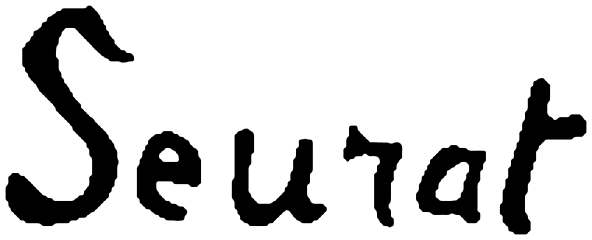
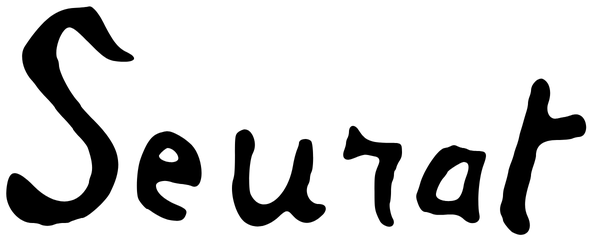
İmzalar kalemle yazılır; 22 pikselli imza vektörle yeniden çizildi; Ayarlar'da günün sanatçısını değiştir; ana sayfada yıllar satırı kalktı (v1.44.0)
Claude-Session: https://claude.ai/code/session_01Jyy6CPr5G9ZFrqo5QNC9z8

diff --git a/js/imza.js b/js/imza.js
@@ -118,7 +118,7 @@ export function murekkepMaskesi(img, yukseklik = 240) {
     k.width = kw;
     k.height = kh;
     k.getContext('2d').drawImage(t, x0, y0, kw, kh, 0, 0, kw, kh);
-    return { adres: k.toDataURL('image/png'), en: kw, boy: kh };
+    return { adres: k.toDataURL('image/png'), en: kw, boy: kh, img: k };
   } catch {
     return null;
   }
@@ -147,7 +147,7 @@ export async function imzaGoster(s, kutu) {
   const yerel = `gorseller/imza/${encodeURIComponent(s.id)}.png`;
   const hazir = await yukle(yerel, false).catch(() => null);
   // tam adres: CSS değişkenindeki göreli url() stil dosyasına (css/) göre çözülürdü
-  if (hazir) m = { adres: new URL(yerel, document.baseURI).href, en: hazir.naturalWidth, boy: hazir.naturalHeight };
+  if (hazir) m = { adres: new URL(yerel, document.baseURI).href, en: hazir.naturalWidth, boy: hazir.naturalHeight, img: hazir };
   else {
     // küçük resim (CORS'lu); Wikimedia hız sınırına (429) takıldıysa birkaç saniye sonra bir kez daha
     const kucuk = commonsKucuk(dosya, 960); // büyük kaynak: maske 3 kat ekranda keskin kalsın
@@ -173,4 +173,93 @@ export async function imzaGoster(s, kutu) {
   const ad = kutu.querySelector('.isim');
   if (ad) ad.after(kap);
   else kutu.prepend(kap);
+  kalemleYaz(el, kap, kalemYolu(m.img));
+}
+
+// Kalemin yolu: maske dikey şeritlere bölünür; her şeritte mürekkep miktarı (0…1) ve mürekkebin ağırlık merkezi (y,
+// 0 üst … 1 alt). Mürekkep yoksa y bir önceki şeritten kalır (kalem havada, aynı yükseklikte ilerler).
+export function seritlerden(veri, w, h) {
+  const yol = [];
+  let oncekiY = 0.6;
+  for (let x = 0; x < w; x++) {
+    let top = 0;
+    let ty = 0;
+    for (let y = 0; y < h; y++) {
+      const a = veri[(y * w + x) * 4 + 3] / 255;
+      top += a;
+      ty += a * y;
+    }
+    const y = top > 0.05 ? ty / top / Math.max(1, h - 1) : oncekiY;
+    oncekiY = y;
+    yol.push({ y, m: Math.min(1, top / (h * 0.35)) });
+  }
+  return yol;
+}
+
+export function kalemYolu(kaynak, n = 64) {
+  try {
+    const h = 32;
+    const t = document.createElement('canvas');
+    t.width = n;
+    t.height = h;
+    const c = t.getContext('2d', { willReadFrequently: true });
+    c.drawImage(kaynak, 0, 0, n, h);
+    return seritlerden(c.getImageData(0, 0, n, h).data, n, h);
+  } catch {
+    return null;
+  }
+}
+
+// Zaman çizelgesi: mürekkebi çok olan şeritte kalem yavaşlar, boşlukta hızlanır. Dönen: her şeridin bitiş anı (0…1)
+export function yazmaZamanlari(yol) {
+  const agirlik = yol.map((s) => 0.18 + s.m);
+  const top = agirlik.reduce((a, b) => a + b, 0) || 1;
+  let birikim = 0;
+  return agirlik.map((a) => (birikim += a / top));
+}
+
+const azHareket = () => typeof matchMedia === 'function' && matchMedia('(prefers-reduced-motion: reduce)').matches;
+
+// İmza kalemle yazılıyormuş gibi soldan sağa belirir (--yaz: maskenin açık kısmı); parlayan kalem ucu mürekkebi izler,
+// mürekkebin yüksekliğine göre iner çıkar. Bitince uç söner, imzanın üstünden bir kez ışık kayar (.yazildi).
+function kalemleYaz(el, kap, yol) {
+  const bitir = () => {
+    el.style.setProperty('--yaz', '100%');
+    el.classList.add('yazildi');
+  };
+  if (!yol || !yol.length || azHareket() || typeof requestAnimationFrame !== 'function') return bitir();
+  const oran = parseFloat(el.style.getPropertyValue('--oran')) || 4;
+  const sure = Math.min(2600, Math.max(1300, 900 + oran * 260)); // uzun imza daha uzun sürer
+  const zaman = yazmaZamanlari(yol);
+  const uc = document.createElement('span');
+  uc.className = 'imza-uc';
+  uc.setAttribute('aria-hidden', 'true');
+  kap.append(uc);
+  el.style.setProperty('--yaz', '0%');
+  let bas = 0;
+  let i = 0;
+  const adim = (t) => {
+    if (!el.isConnected) return;
+    if (!bas) bas = t + 350; // ad belirdikten az sonra başlar
+    const z = Math.max(0, (t - bas) / sure);
+    while (i < zaman.length - 1 && zaman[i] < z) i++;
+    const once = i ? zaman[i - 1] : 0;
+    const f = Math.min(1, Math.max(0, (z - once) / Math.max(1e-6, zaman[i] - once)));
+    const x = Math.min(1, (i + f) / yol.length);
+    // imza kutunun içinde "contain" ile durur: genişlik kutuyu doldurur, yükseklik ortalanır
+    const gen = el.offsetWidth;
+    const boy = el.offsetHeight;
+    const imzaBoy = Math.min(boy, gen / oran);
+    const ustBosluk = (boy - imzaBoy) / 2;
+    el.style.setProperty('--yaz', `${(x * 100).toFixed(2)}%`);
+    uc.style.left = `${el.offsetLeft + x * gen}px`;
+    uc.style.top = `${el.offsetTop + ustBosluk + yol[Math.min(i, yol.length - 1)].y * imzaBoy}px`;
+    if (z < 1) requestAnimationFrame(adim);
+    else {
+      uc.classList.add('bitti');
+      setTimeout(() => uc.remove(), 600);
+      bitir();
+    }
+  };
+  requestAnimationFrame(adim);
 }

diff --git a/css/app.css b/css/app.css
@@ -12713,6 +12713,7 @@ a.harita-seviye:active {
    (kâğıt zemini saydam); maskeyi yaldız boyar, ışık mürekkebin üstünden bir kez kayar: her temada aynı altın imza.
    Soldan sağa yazılır gibi belirir. Açık temalarda yaldız koyulaşır (açık zeminde okunsun). */
 .imza-kap {
+  position: relative;
   display: block;
   width: fit-content;
   max-width: 72%;
@@ -12725,22 +12726,47 @@ a.harita-seviye:active {
   width: calc(var(--imza-boy) * var(--oran, 4));
   max-width: 100%;
   background: linear-gradient(100deg, #a8782a 0%, #f6dc8e 22%, #c9973a 42%, #fff1c4 50%, #c9973a 58%, #e8c46e 78%, #9a6b1f 100%) 0 0 / 260% 100%;
-  /* uzun yazılış: Safari kısaltmanın içindeki var()'ı kimi sürümlerde çözemiyor */
-  -webkit-mask-image: var(--imza);
-  -webkit-mask-size: contain;
+  /* İki maske katmanı kesişir: imzanın kendisi ve kalemle yazılmış kısmı (--yaz kadar, ucu yumuşak; js/imza.js
+     kalemleYaz yürütür). Uzun yazılış: Safari kısaltmanın içindeki var()'ı kimi sürümlerde çözemiyor. */
+  -webkit-mask-image: var(--imza), linear-gradient(90deg, #000 calc(var(--yaz, 100%) - 2%), transparent calc(var(--yaz, 100%) + 0.5%));
+  -webkit-mask-size: contain, 100% 100%;
   -webkit-mask-repeat: no-repeat;
-  -webkit-mask-position: left center;
-  mask-image: var(--imza);
-  mask-size: contain;
+  -webkit-mask-position: left center, 0 0;
+  -webkit-mask-composite: source-in;
+  mask-image: var(--imza), linear-gradient(90deg, #000 calc(var(--yaz, 100%) - 2%), transparent calc(var(--yaz, 100%) + 0.5%));
+  mask-size: contain, 100% 100%;
   mask-repeat: no-repeat;
-  mask-position: left center;
-  animation:
-    imza-gel 1.4s ease-out both,
-    imza-isil 3.2s 1.2s ease-in-out both;
+  mask-position: left center, 0 0;
+  mask-composite: intersect;
+}
+/* yazı bitince üstünden bir kez ışık kayar */
+.imza.yazildi {
+  animation: imza-isil 3.2s ease-in-out both;
+}
+/* kalemin ucu: mürekkebi izleyen küçük parlak nokta */
+.imza-uc {
+  position: absolute;
+  z-index: 1;
+  width: 8px;
+  height: 8px;
+  margin: -4px 0 0 -4px;
+  border-radius: 50%;
+  background: radial-gradient(circle, #fffaf0 0%, #f6dc8e 40%, rgba(246, 220, 142, 0) 72%);
+  box-shadow: 0 0 12px 4px rgba(246, 220, 142, 0.45);
+  pointer-events: none;
+  transition: opacity 0.5s ease-out;
+}
+.imza-uc.bitti {
+  opacity: 0;
 }
 :root[data-tema='sepya'] .imza,
 :root[data-tema='acik'] .imza {
   background-image: linear-gradient(100deg, #6e4a14 0%, #a8782a 22%, #8a6420 42%, #d4a64a 50%, #8a6420 58%, #a8782a 78%, #5a3c10 100%);
+}
+:root[data-tema='sepya'] .imza-uc,
+:root[data-tema='acik'] .imza-uc {
+  background: radial-gradient(circle, #fff3d0 0%, #c9973a 40%, rgba(201, 151, 58, 0) 72%);
+  box-shadow: 0 0 10px 3px rgba(154, 107, 31, 0.35);
 }
 @keyframes imza-isil {
   from {
@@ -12750,19 +12776,9 @@ a.harita-seviye:active {
     background-position: 0 0;
   }
 }
-@keyframes imza-gel {
-  from {
-    opacity: 0;
-    clip-path: inset(0 100% 0 0);
-  }
-  to {
-    clip-path: inset(0 0 0 0);
-  }
-}
 @media (prefers-reduced-motion: reduce) {
-  .imza {
+  .imza.yazildi {
     animation: none;
-    background-position: 0 0;
   }
 }
 

diff --git a/js/ekranlar/ayarlar.js b/js/ekranlar/ayarlar.js
@@ -5,7 +5,9 @@ import { gorselUrl, secilenGorsel } from '../gorsel.js';
 import { yedekMetni, yedekCoz, yedekYarimOturum, TEMALAR, gelistiriciAc, gelistiriciKapat } from '../depo.js';
 import { idbKoy } from '../idb.js';
 import { kayitGecerliMi } from '../devam.js';
-import { acikListe, bugun, kotuler, d, gununRengi, ciz, ust, TEMA_AD, TAHMINI_GORSEL_KB, ekran, kaydet, temaUygula } from './ortak.js';
+import { acikListe, bugun, kotuler, d, gununRengi, ciz, ust, TEMA_AD, TAHMINI_GORSEL_KB, ekran, kaydet, temaUygula, gununId, gununHavuzu } from './ortak.js';
+import { baskaSanatci } from '../gunun.js';
+import { bilinenAd } from '../adlar.js';
 import { yedekTarihiYaz } from './bugun.js';
 import { yarimSil } from './pekistir.js';
 import { SURUM } from '../surum.js';
@@ -85,6 +87,11 @@ export function ayarlarSayfasi() {
         <input class="anahtar" type="checkbox" role="switch" data-ayar-egim ${a.egim !== false ? 'checked' : ''} ${egimVar() ? '' : 'disabled'} aria-label="Telefonu eğince tablo oynasın"></label>
         <button class="dugme ince" type="button" data-egim-izin data-test="egim-izin" hidden>${ikon('hareket', 18, 1.6)} Hareket iznini ver</button>
         <p class="mesaj" id="egim-mesaj" aria-live="polite"></p></div>
+      <div class="ayar"><b>Günün sanatçısı</b>
+        <p>Bugün: <span data-gunun-ad data-test="gunun-ad">${kacis(gununAdi())}</span>. Başka biriyle değiştirebilirsin; gün boyunca o kalır, yarın yeni sanatçı kendiliğinden gelir.</p>
+        <button class="dugme ince" type="button" data-gunun-degistir data-test="gunun-degistir">Başka bir sanatçı getir</button>
+        <p class="mesaj" id="gunun-mesaj" aria-live="polite"></p>
+      </div>
       <div class="ayar"><b>Görselleri çevrimdışı indir</b>
         <p id="indir-bilgi">Açık sanatçıların pekiştirme görselleri (sanatçı başına en fazla ${TEST_HAVUZU}) hesaplanıyor…</p>
         <button class="dugme" type="button" data-indir>İndir</button>
@@ -191,6 +198,17 @@ export function olaylariBagla() {
       a.gunlukKart = Math.min(100, Math.max(5, a.gunlukKart + Number(kb.dataset.kart)));
       ekran.querySelector('[data-test="gunluk-kart"]').textContent = a.gunlukKart;
       kaydet();
+      return;
+    }
+    if (e.target.closest('[data-gunun-degistir]')) {
+      // o gün için günün sanatçısı (ilerleme.gununDegisim; js/ekranlar/ortak.js gununId)
+      d.ilerleme.gununDegisim = { tarih: bugun(), id: baskaSanatci(gununHavuzu(), gununId(), Math.random) };
+      kaydet();
+      d.perdeAcildi = false; // ana sayfaya dönünce sahne perdeyle açılır
+      ekran.querySelector('[data-gunun-ad]').textContent = gununAdi();
+      const m = document.getElementById('gunun-mesaj');
+      m.className = 'mesaj tamam';
+      m.innerHTML = `Ana sayfada bugün ${kacis(gununAdi())}. <a href="#/">Ana sayfaya git</a>`;
       return;
     }
     if (e.target.closest('[data-indir]')) return gorselleriIndir();
@@ -335,3 +353,9 @@ export function olaylariBagla() {
     }
   });
 }
+
+function gununAdi() {
+  const s = d.harita.get(gununId());
+  return s ? bilinenAd(s.ad, d.kisaAdlar[s.id]) : '—';
+}
+

diff --git a/tests/e2e/estetik.spec.js b/tests/e2e/estetik.spec.js
@@ -62,6 +62,10 @@ test('imza: uygulamayla gelen hazır maske kullanılır (Wikimedia’ya gidilmez
   expect(await imza.evaluate((e) => e.style.getPropertyValue('--oran'))).toBe('3.0000');
   expect(await imza.evaluate((e) => parseFloat(getComputedStyle(e).width))).toBeGreaterThan(150);
   expect(wikimedia).toBe(0);
+  // kalemle yazılır: önce kısmen açık, kalem ucu görünür; bitince tamamı açık ve uç kalkar
+  await expect(imza).toHaveClass(/yazildi/, { timeout: 6000 });
+  expect(await imza.evaluate((e) => e.style.getPropertyValue('--yaz'))).toBe('100%');
+  await expect(page.locator('.imza-uc')).toHaveCount(0, { timeout: 2000 });
 });
 
 test('imza: tablonun üstündeki imzanın fotoğrafı (mürekkep değil) gösterilmez', async ({ page, context }) => {
@@ -101,4 +105,28 @@ test('çerçeve: Koleksiyonum’da eser döneminin çerçevesinde (Giotto → Go
   const c = page.locator('.koleksiyon-duvar .asi-cerceve').first();
   await expect(c).toHaveAttribute('data-cerceve', 'kemer');
   expect(await c.evaluate((e) => getComputedStyle(e).borderTopLeftRadius)).not.toBe('0px');
+});
+
+test('Ayarlar: "Başka bir sanatçı getir" günün sanatçısını o gün için değiştirir; ana sayfada yıllar satırı yok', async ({ page, context }) => {
+  await agiHazirla(context);
+  await page.goto('./#/');
+  const ad = page.locator('.sahne-isim .isim');
+  await expect(ad).toBeVisible();
+  const once = await ad.getAttribute('aria-label');
+  // imza gelince tablonun üstü kalabalıklaşıyordu: yıllar · akım satırı ana sayfadan kalktı (sanatçı sayfasında duruyor)
+  await expect(page.locator('.sahne-isim .meta')).toHaveCount(0);
+  await expect(page.locator('[data-test="gunun-degistir"]')).toHaveCount(0);
+  await page.goto('./#/ayarlar');
+  const adAyar = page.locator('[data-test="gunun-ad"]');
+  const ilk = await adAyar.textContent();
+  await page.locator('[data-test="gunun-degistir"]').click();
+  await expect(adAyar).not.toHaveText(ilk);
+  await expect(page.locator('#gunun-mesaj')).toContainText('Ana sayfada bugün');
+  expect((await page.evaluate(() => JSON.parse(localStorage.getItem('sanat-atlasi:ilerleme')).gununDegisim)).id).toBeTruthy();
+  await page.locator('#gunun-mesaj a').click();
+  await expect(page.locator('.sahne-isim .isim')).not.toHaveAttribute('aria-label', once);
+  // yeniden açılınca da kalır
+  const sonra = await page.locator('.sahne-isim .isim').getAttribute('aria-label');
+  await page.reload();
+  await expect(page.locator('.sahne-isim .isim')).toHaveAttribute('aria-label', sonra);
 });

diff --git a/tests/e2e/paket8.spec.js b/tests/e2e/paket8.spec.js
@@ -263,7 +263,7 @@ test('T4: sürüm değişince Bugün’de bir kez “Yenilikler”; Ayarlar’da
   await expect(not).toBeVisible();
   await expect(not).toContainText('1.26 ·');
   await expect(not).toContainText('Koleksiyonum');
-  expect((await ilerleme(page)).sonSurum).toBe('1.43.1');
+  expect((await ilerleme(page)).sonSurum).toBe('1.44.0');
   // aynı oturumda ana sayfaya dönünce durur; kapatılınca gider; sonraki açılışta yok
   await not.getByRole('button', { name: 'Yenilikler notunu kapat' }).click();
   await expect(not).toHaveCount(0);
@@ -271,15 +271,15 @@ test('T4: sürüm değişince Bugün’de bir kez “Yenilikler”; Ayarlar’da
   await expect(page.locator('[data-test="gunun-kart"], [data-test="pekistir"]').first()).toBeVisible();
   await expect(page.locator('[data-test="yenilik-not"]')).toHaveCount(0);
   await page.goto('./#/ayarlar');
-  await expect(page.locator('[data-test="yenilikler"] li').first()).toContainText('1.43 ·');
-  await expect(page.locator('[data-test="yenilikler"] li').nth(10)).toContainText('1.33 ·');
+  await expect(page.locator('[data-test="yenilikler"] li').first()).toContainText('1.44 ·');
+  await expect(page.locator('[data-test="yenilikler"] li').nth(11)).toContainText('1.33 ·');
 });
 
 test('T4: yepyeni kullanıcıya Yenilikler notu gösterilmez', async ({ page }) => {
   await page.goto('./');
   await hazir(page);
   await expect(page.locator('[data-test="yenilik-not"]')).toHaveCount(0);
-  expect((await ilerleme(page)).sonSurum).toBe('1.43.1');
+  expect((await ilerleme(page)).sonSurum).toBe('1.44.0');
 });
 
 test('T2: eser notları ilk ekrandan sonra yüklenir; önce açılan görüntüleyici not gelince yenilenir', async ({ page, context }) => {

diff --git a/js/yenilikler.js b/js/yenilikler.js
@@ -1,6 +1,7 @@
 // "Yenilikler" notu (T4): sürüm değişince Bugün'de bir kez, Ayarlar'ın altında her zaman.
 // Yeni bir sürümde listenin başına satır eklenir; yalnızca düzeltme olan sürümler listeye girmez.
 export const YENILIKLER = [
+  { surum: '1.44.0', metin: 'İmzalar kalemle yazılıyormuş gibi belirir: parlayan kalem ucu mürekkebi izler, yazı bitince üstünden ışık geçer. Küçük kaynaktan gelen 22 imza (Dürer, Tintoretto, David…) yeniden çizildi, artık piksel piksel değil. Ayarlar’da “Başka bir sanatçı getir”: günün sanatçısını o gün için değiştirir.' },
   { surum: '1.43.0', metin: 'Duvarlardaki tablolar döneminin çerçevesinde: Gotik kemerli altın, Rönesans ahşap, Barok oymalı altın, Hollanda abanoz, Empresyonist beyaz… Akım sayfalarının başlığı ve haritadaki dönem adları o dönemin harfiyle. Sanatçı sayfasında, Wikidata’da varsa ressamın gerçek imzası.' },
   { surum: '1.42.0', metin: 'Pekiştir’de bugünkü turun destesi telefonu sağa sola çevirince iskambil gibi yelpaze açılır, bırakınca yaylanıp toplanır.' },
   { surum: '1.41.0', metin: 'Koleksiyonum artık bir duvar: işaretlediğin eserler çivilere iple asılı, telefonu sağa sola çevirince sallanır, bırakınca durulur (Ayarlar’daki hareket seçimine uyar).' },

diff --git a/js/ekranlar/bugun.js b/js/ekranlar/bugun.js
@@ -114,7 +114,7 @@ function sahneHtml(gs, { tekrar, tur, devam, g }) {
         <span class="egim-isik" aria-hidden="true"></span>
         <button class="egim-dugme" type="button" data-egim-dugme data-test="egim-dugme">${ikon('hareket', 18, 1.6)}Hareketi aç</button>
         <div class="bugun-ust"><span class="etiket vurgu">Günün sanatçısı</span><span class="hap" data-test="tekrar">${tekrar}</span></div>
-        <a class="sahne-isim isim-blok" href="#/gunun">${isimHtml(gs)}<p class="meta">${kunye(gs, { bag: false })}</p></a>
+        <a class="sahne-isim isim-blok" href="#/gunun">${isimHtml(gs)}</a>
         <span class="kaydir-ipucu" aria-hidden="true">${ikon('asagi', 22, 1.4)}</span>
       </div>
       <div class="sahne-paneller">

diff --git a/js/ekranlar/ortak.js b/js/ekranlar/ortak.js
@@ -490,8 +490,13 @@ export function gununEseri(eserler) {
   return enBilinen(dikey) || enBilinen(eserler);
 }
 
+// Günün sanatçısı: her gün hesapla seçilir; ana sayfadaki "başka sanatçı" düğmesiyle o gün için değiştirilebilir
+// (ilerleme.gununDegisim = { tarih, id }; ertesi gün kendiliğinden hesaplanana döner)
 export function gununId() {
-  return gununSanatcisi(gununHavuzu(), bugun());
+  const havuz = gununHavuzu();
+  const o = d.ilerleme && d.ilerleme.gununDegisim;
+  if (o && o.tarih === bugun() && havuz.includes(o.id)) return o.id;
+  return gununSanatcisi(havuz, bugun());
 }
 
 // Sanatçıyı temsil eden eser: uygun görseli olanlar arasında Wikidata site bağlantısı en çok olan.

diff --git a/js/depo.js b/js/depo.js
@@ -93,6 +93,11 @@ export function ilerlemeDogrula(nesne) {
     bildirimler: bildirimlerDogrula(v.bildirimler),
     sonSurum: typeof v.sonSurum === 'string' && /^\d+\.\d+\.\d+$/.test(v.sonSurum) ? v.sonSurum : null,
     gelistirici: gelistiriciDogrula(v.gelistirici),
+    // ana sayfadaki "başka sanatçı": o gün için seçilen günün sanatçısı
+    gununDegisim:
+      v.gununDegisim && typeof v.gununDegisim.id === 'string' && /^\d{4}-\d{2}-\d{2}$/.test(v.gununDegisim.tarih || '')
+        ? { tarih: v.gununDegisim.tarih, id: v.gununDegisim.id }
+        : null,
     olusturma: v.olusturma || t.olusturma,
   };
 }

diff --git a/sw.js b/sw.js
@@ -2,7 +2,7 @@
 // - Uygulama kabuğu ve data/*.json: önce önbellek (sürümlü; SURUM değişince yenilenir)
 // - Wikimedia, müze ve WikiArt görselleri: bayatken-yeniden-doğrula, ~700 MB üst sınır, en eski kullanılan silinir (LRU)
 // - Wikidata API/SPARQL: önce ağ, olmazsa önbellek
-const SURUM = '1.43.1';
+const SURUM = '1.44.0';
 const KABUK = `atlas-kabuk-${SURUM}`;
 const RESIM = 'atlas-resim-2'; // eski 'atlas-resim' hata yanıtları içerebilir; activate'te silinir
 const WIKIDATA = 'atlas-wikidata';

diff --git a/js/surum.js b/js/surum.js
@@ -1,2 +1,2 @@
 // Uygulamanın sürümü; sw.js'deki SURUM ile aynı olmalı (test denetler)
-export const SURUM = '1.43.1';
+export const SURUM = '1.44.0';

diff --git a/KARARLAR.md b/KARARLAR.md
@@ -1233,3 +1233,11 @@ Emre estetik önerilerden üçünü seçti.
 
 Emre güncelledi, imzaları göremedi. Dosyalar yayındaydı; sebep büyük olasılıkla Safari: imzanın genişliği yalnız `aspect-ratio`'dan türüyordu (genişliği içeriğe göre olan kabın içinde boş bir span). Chromium bundan genişlik çıkarıyor (testler geçiyordu), Safari kutuyu sıfır genişlikte bırakabiliyor. Artık genişlik açıkça `boy × oran` (`--oran`, js yazar); maske `-webkit-mask-*` uzun yazılışla (kısaltmanın içindeki var() kimi Safari sürümlerinde çözülmüyor). Kabuk değiştiği için 1.43.1.
 
+## İş 48c · Pikselli imzalar vektörle yeniden çizildi, kalem animasyonu (2026-10-28, v1.44.0)
+
+Emre: "dürerin imzası çok piksel piksel", sonra "sadece dürer değil bu tarz piksel olan hepsini bulup düzelt ve imzayı kalemle çiziyormuş gibi bir animasyon yap".
+1. **Pikselliler:** özgün dosyası 160 px'ten kısa olan 22 imza (Dürer 38 px, Tintoretto 46, Veronese 53, Holman Hunt 58, Hogarth 64, van Dyck 65, David 71 … Vigée Le Brun 159; Ruisdael ve Corot zaten ayıklanmıştı). Daha büyük kopya aranamadı (bu ortamın IP'si Commons API'sinden de 429). Her maske vektöre çevrildi: kenar büyütme oranıyla orantılı (0,63 × 240/özgün boy px) bulanıklaştırılıp eşiklendi, potrace (potracer 0.0.4, alphamax 1.3, opttolerance 1.0) ile eğrilere çevrildi, Chromium'da 2 kat çizilip 240 px boya indirildi: çizgiler kalem darbesi gibi pürüzsüz, ince çizgiler korunuyor. Tek seferlik el işi (araç ve Chromium betikte değil): `python3 scripts/imza_maske.py --hepsi` bunları yeniden pikselli üretir; varsayılan çalıştırma ve `--buyut` dokunmaz.
+2. **Kalem animasyonu** (`kalemleYaz`): imzanın maskesi ikinci bir maske katmanıyla kesişir (soldan sağa açılan, ucu yumuşak degrade, `--yaz`); maske 64 dikey şeride bölünür, her şeritte mürekkep miktarı ve ağırlık merkezi (`kalemYolu`): parlayan kalem ucu (`.imza-uc`) yazının ucunda mürekkebin yüksekliğinde iner çıkar, mürekkepli yerde yavaşlar, boşlukta hızlanır (`yazmaZamanlari`); süre imzanın uzunluğuyla 1,3–2,6 sn. Bitince uç söner, üstünden bir kez ışık kayar. Eski düz soldan sağa açılma (clip-path) kalktı. Hareket azaltmada imza doğrudan görünür. Ana sayfada ve sanatçı sayfalarında.
+3. **Günün sanatçısını değiştirmek** (Emre: "bugünün sanatçısını imzası olan bir sanatçıyla değiştir", sonra "ana sayfaya ekleme ayarlara ekle"): Ayarlar'da "Günün sanatçısı" bölümü, "Başka bir sanatçı getir" o gün için havuzdan rastgele başka birini seçer (`ilerleme.gununDegisim = { tarih, id }`, yedeğe dahil; `gununId` önce ona bakar, ertesi gün kendiliğinden hesaplanana döner). Ana sayfaya dönünce sahne perdeyle açılır.
+4. **Ana sayfada yıllar satırı kalktı:** Emre panoda ana sayfa görüntüsündeki "1755–1842 · Neoklasisizm · Kurs dışı" satırını çevreleyip "kaldır" dedi: imza gelince tablonun üstü kalabalıklaşıyordu. Satır sanatçı ve günün sanatçısı sayfalarında duruyor.
+5. Test: `tests/unit/imza.test.mjs` (kalem yolu, zaman), `tests/e2e/estetik.spec.js` (yazılır, uç kalkar; Ayarlar'dan değiştirme, ana sayfada yıllar satırı yok). Sürüm 1.44.0 + Yenilikler satırı.
